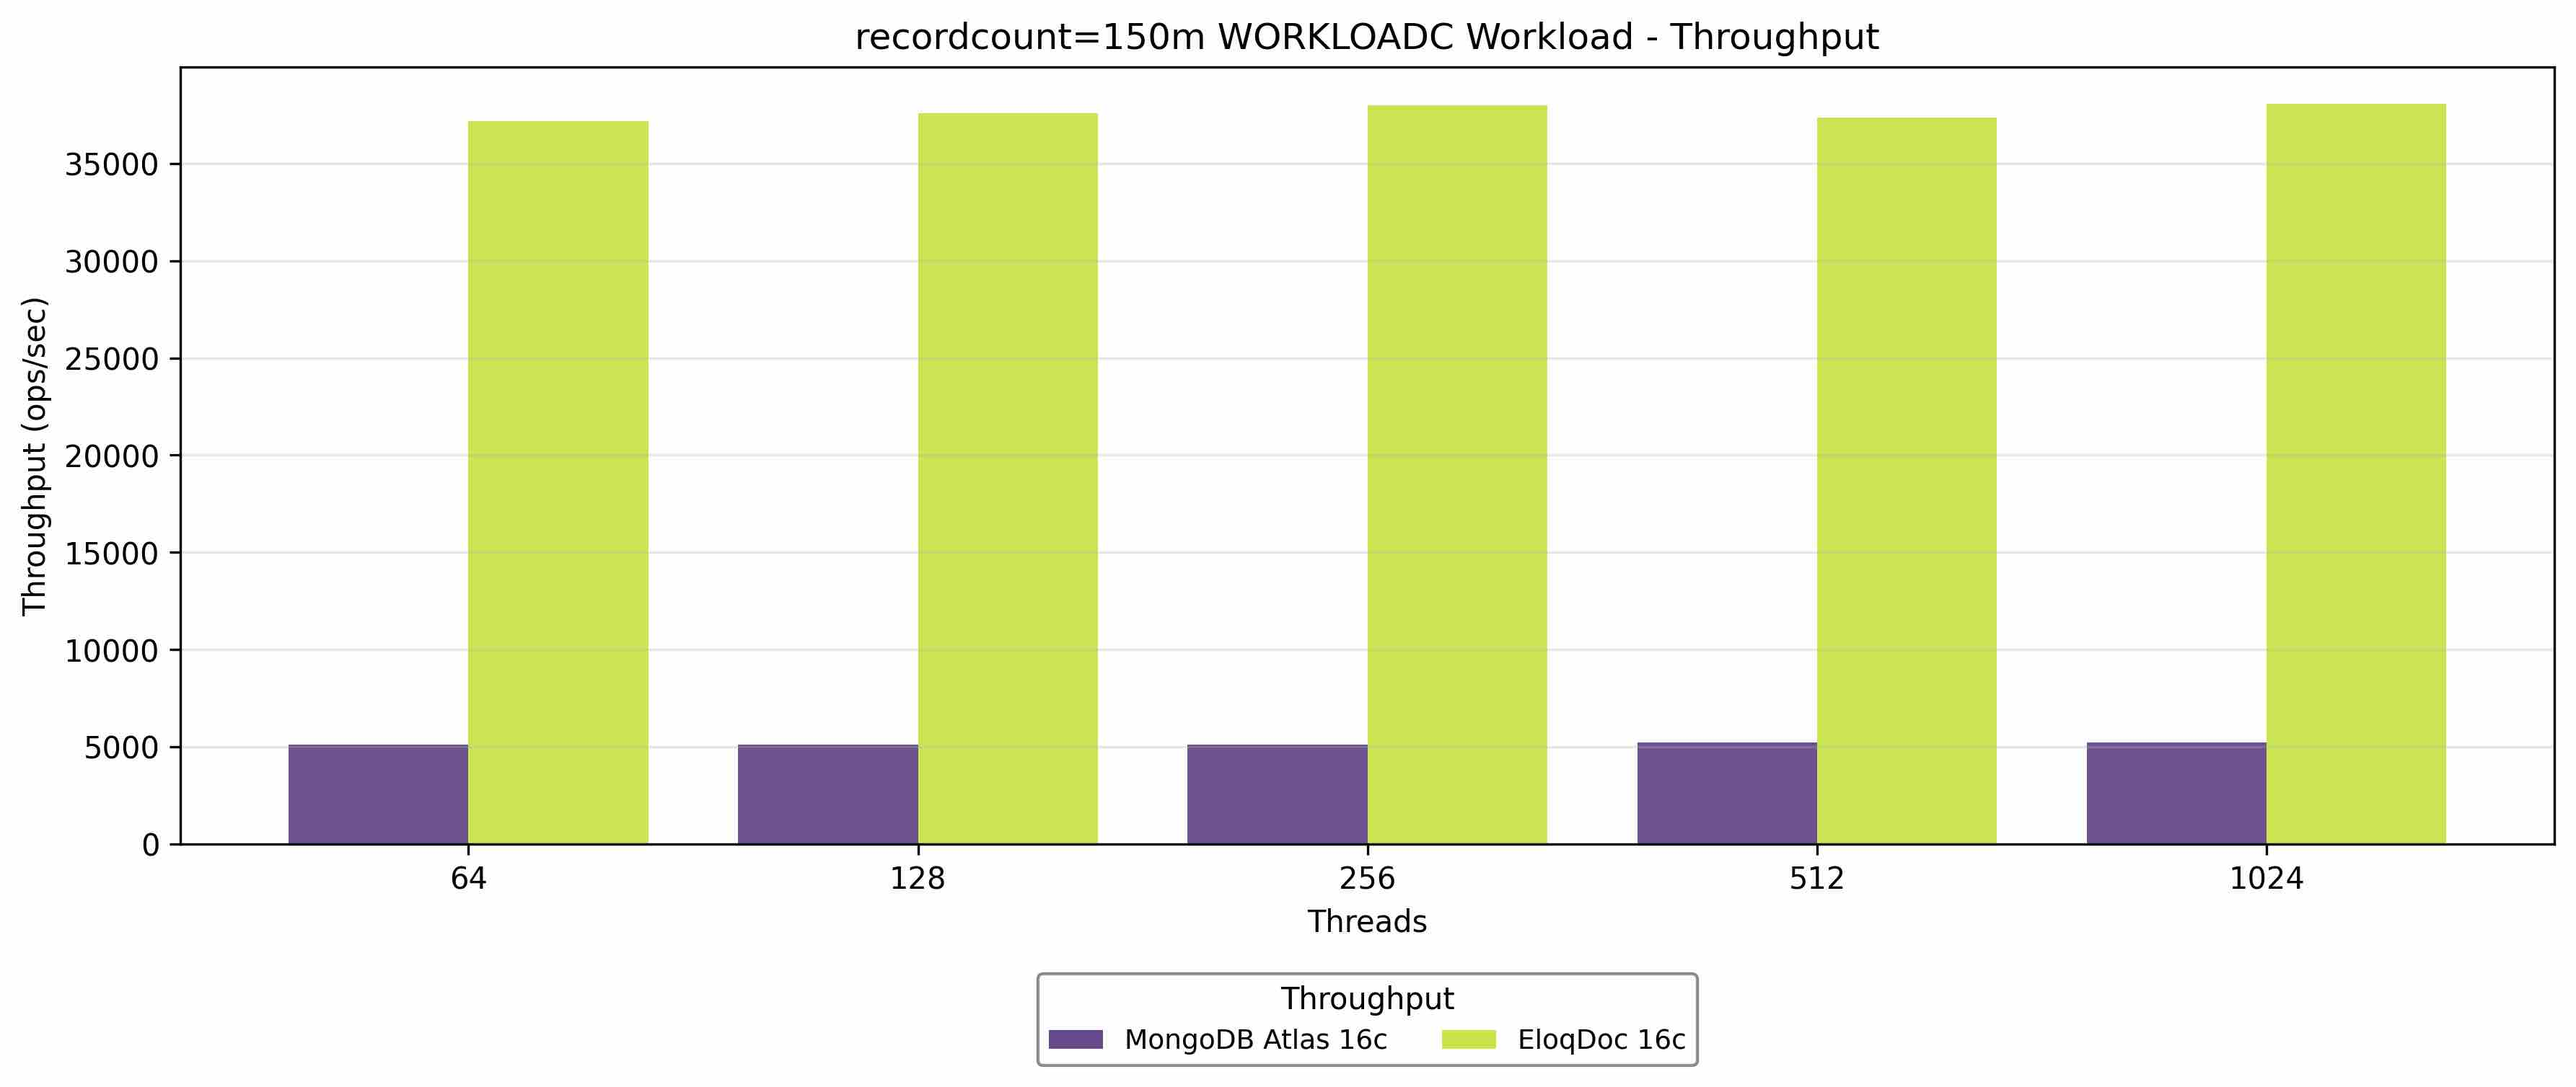
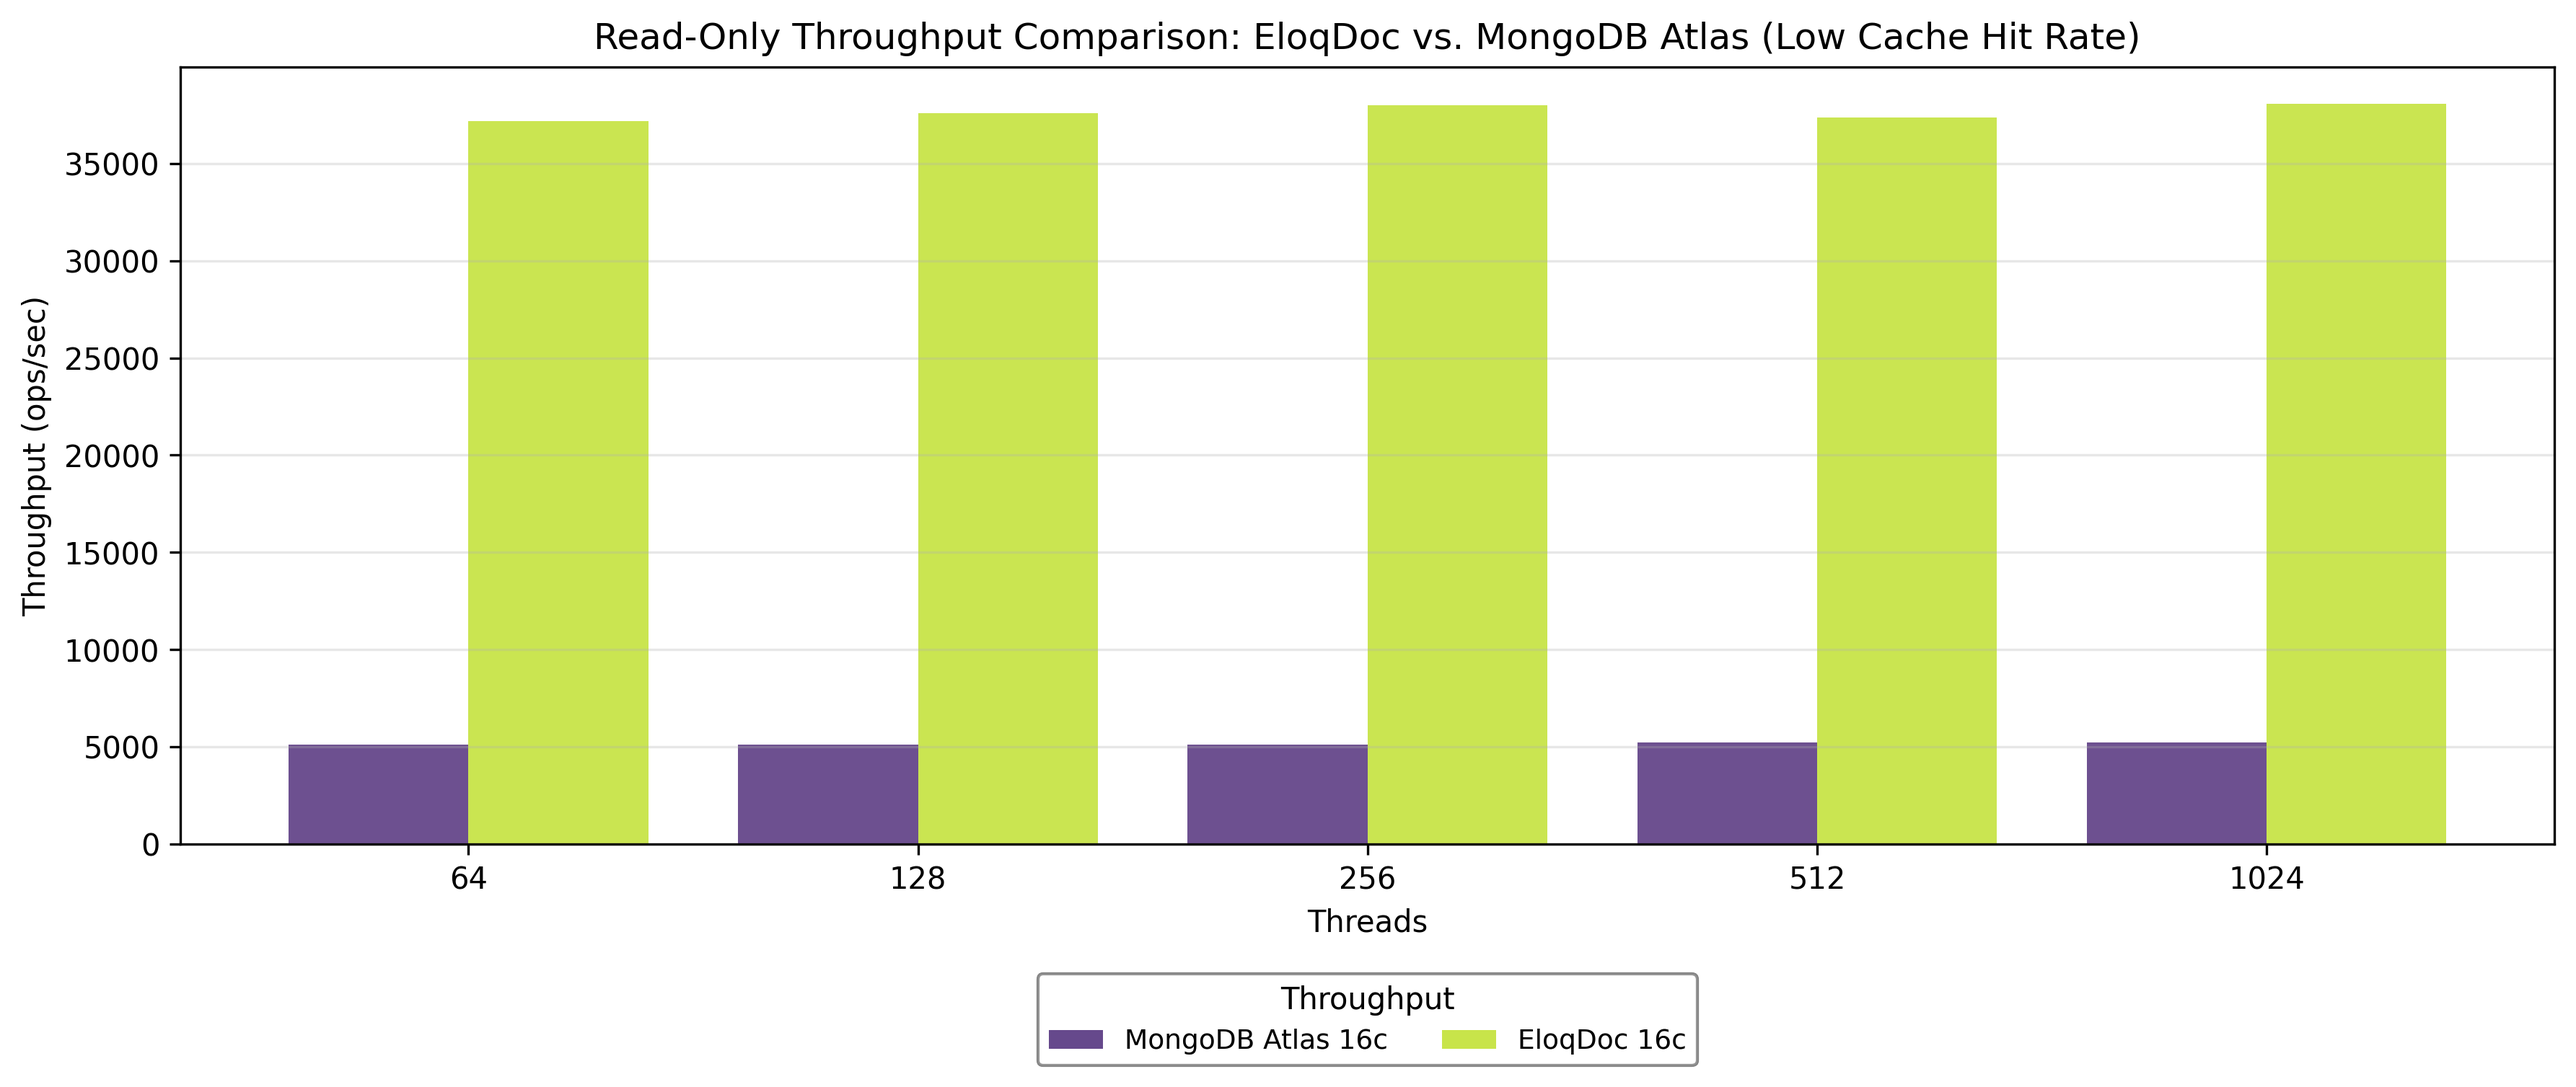
Update README images

Changed region(s): [[0.2176, 0.0, 0.8393, 0.0623], [0.5595, 0.935, 0.5906, 0.9662]]

diff --git a/README.md b/README.md
@@ -88,7 +88,7 @@ This architecture enable EloqDoc to support:
 
 ## Benchmark
 
-We evaluated EloqDoc against MongoDB Atlas across representative deployment scenarios, ranging from fully in-memory workloads to cases where the working set does not fit in cache. All tests were executed on 16-core database nodes configured with identical client concurrency and dataset characteristics.
+All tests were conducted on AWS EC2 i4i.4xlarge instances, featuring 16 vCPUs, 128 GB RAM, and high-performance local NVMe storage. We evaluated EloqDoc against MongoDB Atlas across representative deployment scenarios, ranging from fully in-memory workloads to cases where the working set exceeds cache capacity. Both systems were benchmarked using identical client concurrency levels and dataset characteristics to ensure fairness and reproducibility.
 
 **Key takeaways**
 - EloqDoc sustained up to 60% higher throughput than MongoDB Atlas for mixed 1:1 read/write workloads when the active dataset was fully cached.
@@ -123,7 +123,7 @@ For datasets that exceed available memory, we configured both systems to serve 1
 </a>
 </div>
 
-We will publish a more detailed benchmarks in future.
+We will publish more detailed benchmarks in future.
 
   
 ---
